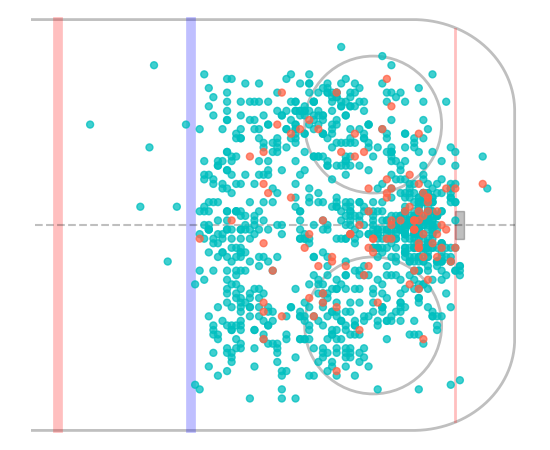
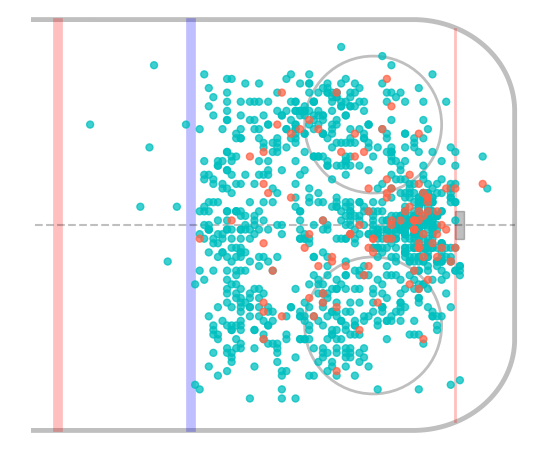
slight update to viz, no-op

diff --git a/viz/viz.py b/viz/viz.py
@@ -60,7 +60,7 @@ def rink(ax):
         "goalline_y": 43,
         "pad": 1,
     }
-    params["boardspad_y"] = params["boards_y"] - (params["pad"] / 2)
+    params["boardspad_y"] = params["boards_y"] - (params["pad"] * 0.75)
     kwargs = {"alpha": 0.25, "zorder": 0}
     ax.set_xlim([
         params["boardsmin_x"] - params["pad"],
@@ -74,7 +74,7 @@ def rink(ax):
     ax.plot(
         boards_xs * params["boardsmax_x"],
         (boards_ys * params["boards_y"] * 2) - params["boards_y"],
-        lw=2,
+        lw=3.5,
         c="k",
         **kwargs,
     )
